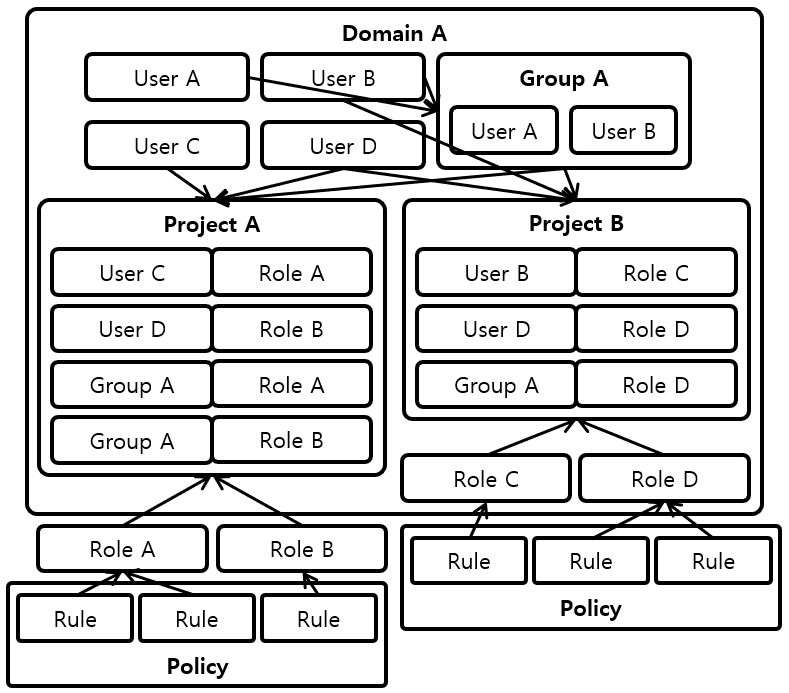
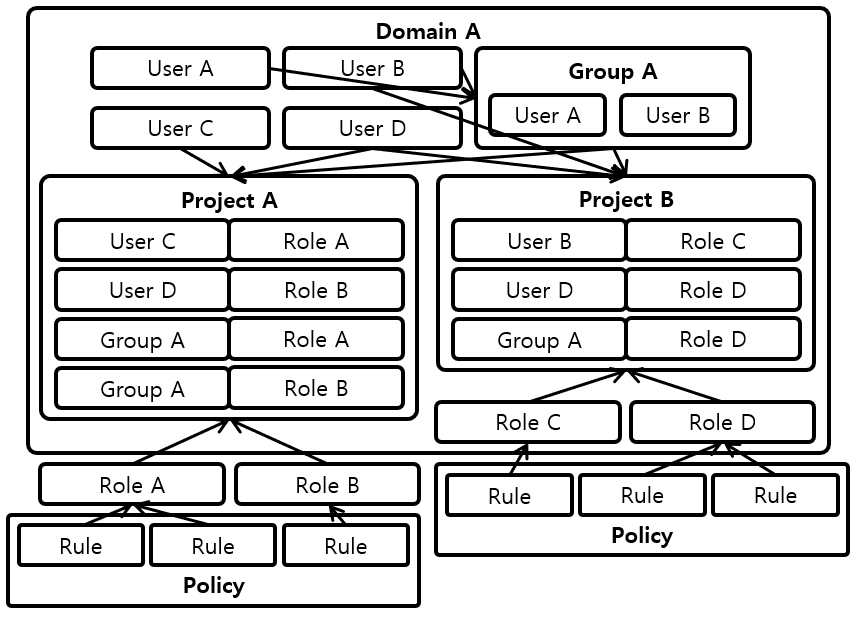
Update

Changed region(s): [[0.0, 0.0, 1.0, 1.0]]

diff --git a/_docs/theory_analysis/OpenStack_Keystone.md b/_docs/theory_analysis/OpenStack_Keystone.md
@@ -29,9 +29,9 @@ Keystone은 OpenStack에서 RBAC 기반의 인증(Authentication), 인가(Author
 
 #### 1.1. Components Relation
 
-![[그림 1] Keystone Components Relation]({{site.baseurl}}/images/theory_analysis/OpenStack_Keystone/Keystone_Component_Relation.PNG){: width="600px"}
+![[그림 1] Keystone Components Relation]({{site.baseurl}}/images/theory_analysis/OpenStack_Keystone/Keystone_Component_Relation.PNG){: width="500px"}
 
-[그림 1]은 Keystone의 주요 구성요소들의 관계를 나타내고 있다.
+[그림 1]은 Keystone의 주요 구성요소들의 관계를 나타내고 있다. Policy는 Domain 밖의 전역 공간에 위치한다. Policy안의 Rule의 집합으로 Role이 정의된다. Role은 특정 Domain안에 소속되거나 Domain 밖의 전역 공간에 위치한다. User, Group, Project는 특정 Domain안에 소속된다. Group은 User의 집합으로 구성된다. User 또는 Group은 각 Project마다 다른 Role을 갖도록 Mapping 될 수 있다.
 
 #### 1.2. Authentication, Authorization Flow
 
